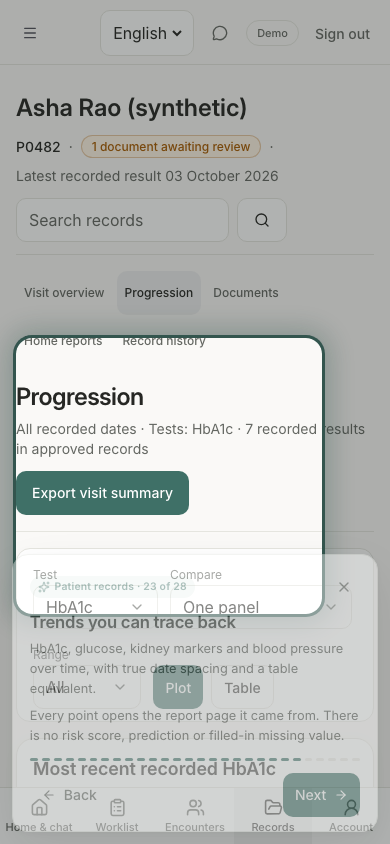
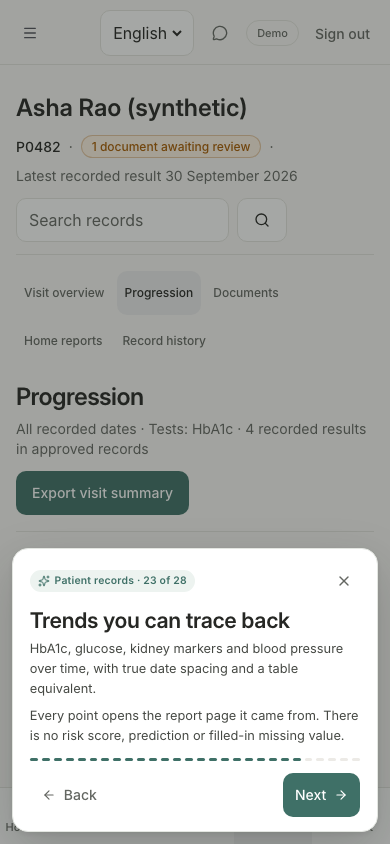
Record hosted chart cleanup

diff --git a/app/reports/evaluator-showcase-2026-11-15-living.md b/app/reports/evaluator-showcase-2026-11-15-living.md
@@ -21,3 +21,16 @@ Verification:
   - Rollback image: `sha256:5f488f621ad4d734392ae494d979cd8f147553d1670a7dc60f0bbe820c72fd50`.
 - Web: Vercel `dpl_Hj2i6rKyxwxo3aQRQaFwD35EiVUx`. Production tour and landing specs passed 10/10.
 - On the live site I drove the loop as the demo doctor: capture → 5/5 sandbox cases → approve → reuse preview. This left "Verify specimen receipt" v7 approved for the demo clinic.
+
+## Hosted chart cleanup (2026-11-15)
+
+With the user's confirmation, I deleted two old test reports for Asha Rao (synthetic) in one transaction:
+
+- `synthetic-smoke-2026-10-03.pdf`: HbA1c 7.8 %, approved twice.
+- `synthetic-deployment-audit-2026-10-04.pdf`: HbA1c 6.73 %.
+
+Together they put three conflicting 3 October values on the progression chart. The rows that depended on them and 2 finished jobs were removed with them. No `results` rows referenced them.
+
+The backup is in the git-ignored `.local/` directory.
+
+After the cleanup, the live chart shows four results: 8.2 → 7.9 → 7.5 → 7.1 % (January to 30 September 2026). The production tour and landing specs passed again.
